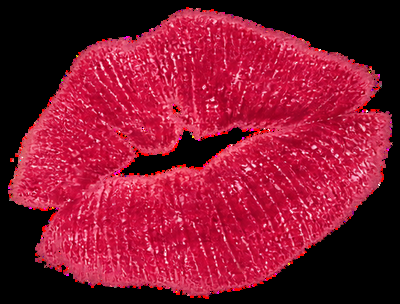
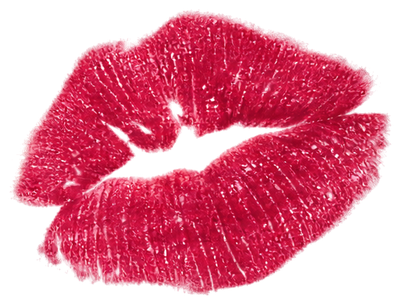
Controlled refinement: hero portrait, transparent signature, philosophy section, habit preview
- Hero: full-bleed portrait (natascha-natural-portrait.jpg) replacing the
  boxed cafe photo, matching the natascha-wright.com editorial treatment.
- Signature/lips assets replaced with properly composited transparent PNGs
  (no more black rectangle behind the gold signature).
- New PhilosophySection ("What About Right Now?") between the intro note
  and the habits preview, using the PDF foreword's own words.
- HabitsSection now previews only habits 01/02/05 with a "+7 more" teaser
  and a "Get All 10 Habits — Free" CTA, instead of listing all ten.
- AboutTeaserSection: large full-height cafe photo on the left (editorial
  spread), text on the right; frees the artist-portrait photo from this
  slot (still used on /about).
- MusicBridgeSection CTA reworded, opens natascha-wright.com in a new tab.
- Footer: removed the promotional Experienta Group link (copyright line
  unchanged).
- Fixed a flex/grid overflow bug in KitForm + HappyLifeLetterSection that
  cut off the "Join the Happy Life Letter" button under the sunset image
  at desktop widths (missing min-w-0 on flex children).

diff --git a/components/Hero.tsx b/components/Hero.tsx
@@ -3,47 +3,49 @@ import Image from "next/image";
 export default function Hero() {
   return (
     <section className="relative overflow-hidden bg-mhr-ivory">
-      <div className="mx-auto max-w-6xl px-5 sm:px-8 grid md:grid-cols-2 gap-10 md:gap-16 items-center min-h-[86vh] md:min-h-[90vh] py-16 md:py-0">
-        <div className="order-2 md:order-1 mhr-fade-up">
-          <p className="text-xs uppercase tracking-[0.3em] text-mhr-gold mb-6">
-            My Happy Life Routine
-          </p>
-          <h1 className="font-display text-4xl sm:text-5xl md:text-[3.4vw] leading-[1.05] text-mhr-ink mb-3">
-            10 Small Habits
-            <br />
-            I Live By
-          </h1>
-          <p className="font-display italic text-lg text-mhr-ink-soft mb-8">
-            by Natascha Wright
-          </p>
-          <p className="text-base sm:text-lg text-mhr-ink-soft leading-relaxed max-w-md mb-10">
-            You don&rsquo;t have to wait for someday to feel good about your
-            life.
-          </p>
-          <div className="flex flex-wrap items-center gap-5">
-            <a
-              href="#guide"
-              className="font-display text-xs uppercase tracking-[0.16em] px-7 py-3.5 bg-mhr-charcoal text-mhr-cream hover:bg-mhr-ink transition-colors"
-            >
-              Get My Free Routine
-            </a>
-            <a
-              href="#routine"
-              className="font-display text-xs uppercase tracking-[0.16em] px-7 py-3.5 border border-mhr-gold text-mhr-ink hover:bg-mhr-gold hover:text-mhr-ivory transition-colors"
-            >
-              Discover My Routine
-            </a>
+      <div className="grid md:grid-cols-2 items-center min-h-[86vh] md:min-h-[90vh]">
+        <div className="order-2 md:order-1 px-5 sm:px-8 md:pl-8 md:pr-10 lg:pl-16 lg:pr-14 py-16 md:py-0 mhr-fade-up">
+          <div className="max-w-md mx-auto md:mx-0">
+            <p className="text-xs uppercase tracking-[0.3em] text-mhr-gold mb-6">
+              My Happy Life Routine
+            </p>
+            <h1 className="font-display text-4xl sm:text-5xl md:text-[3.4vw] leading-[1.05] text-mhr-ink mb-3">
+              10 Small Habits
+              <br />
+              I Live By
+            </h1>
+            <p className="font-display italic text-lg text-mhr-ink-soft mb-8">
+              by Natascha Wright
+            </p>
+            <p className="text-base sm:text-lg text-mhr-ink-soft leading-relaxed max-w-md mb-10">
+              You don&rsquo;t have to wait for someday to feel good about your
+              life.
+            </p>
+            <div className="flex flex-wrap items-center gap-5">
+              <a
+                href="#guide"
+                className="font-display text-xs uppercase tracking-[0.16em] px-7 py-3.5 bg-mhr-charcoal text-mhr-cream hover:bg-mhr-ink transition-colors"
+              >
+                Get My Free Routine
+              </a>
+              <a
+                href="#routine"
+                className="font-display text-xs uppercase tracking-[0.16em] px-7 py-3.5 border border-mhr-gold text-mhr-ink hover:bg-mhr-gold hover:text-mhr-ivory transition-colors"
+              >
+                Discover My Routine
+              </a>
+            </div>
           </div>
         </div>
 
-        <div className="order-1 md:order-2 relative aspect-[4/5] md:aspect-auto md:h-[72vh] mhr-fade-up">
+        <div className="order-1 md:order-2 relative aspect-[4/5] md:aspect-auto h-[58vh] md:h-[90vh] mhr-fade-up">
           <Image
-            src="/images/natascha-cafe.jpg"
+            src="/images/natascha-natural-portrait.jpg"
             alt="Natascha Wright"
             fill
             priority
-            sizes="(min-width: 768px) 45vw, 90vw"
-            className="object-cover object-[center_20%] rounded-sm"
+            sizes="(min-width: 768px) 50vw, 100vw"
+            className="object-cover object-[50%_15%] md:object-[50%_20%]"
           />
         </div>
       </div>

diff --git a/components/HabitsSection.tsx b/components/HabitsSection.tsx
@@ -1,5 +1,10 @@
 import { habits } from "@/lib/habits";
 
+// Preview only — the free guide is the reason to give away all ten.
+const PREVIEW_NUMBERS = ["01", "02", "05"];
+const previewHabits = habits.filter((h) => PREVIEW_NUMBERS.includes(h.number));
+const remainingCount = habits.length - previewHabits.length;
+
 export default function HabitsSection() {
   return (
     <section id="routine" className="bg-mhr-ivory-soft scroll-mt-20">
@@ -9,12 +14,12 @@ export default function HabitsSection() {
             My Routine
           </p>
           <h2 className="font-display text-3xl sm:text-4xl leading-tight text-mhr-ink">
-            10 Small Habits I Live By
+            A Few of the Habits I Live By
           </h2>
         </div>
 
-        <div className="grid sm:grid-cols-2 lg:grid-cols-2 gap-x-12 gap-y-14">
-          {habits.map((habit) => (
+        <div className="grid sm:grid-cols-2 lg:grid-cols-3 gap-x-12 gap-y-14">
+          {previewHabits.map((habit) => (
             <div key={habit.number} className="flex gap-6">
               <span className="mhr-numeral text-5xl sm:text-6xl leading-none shrink-0">
                 {habit.number}
@@ -32,6 +37,18 @@ export default function HabitsSection() {
               </div>
             </div>
           ))}
+        </div>
+
+        <div className="mt-16 pt-12 border-t border-mhr-line text-center">
+          <p className="font-display italic text-lg text-mhr-ink-soft mb-8">
+            + {remainingCount} more little habits inside the free guide
+          </p>
+          <a
+            href="#guide"
+            className="font-display text-xs uppercase tracking-[0.16em] px-8 py-4 bg-mhr-charcoal text-mhr-cream hover:bg-mhr-ink transition-colors inline-block"
+          >
+            Get All 10 Habits — Free
+          </a>
         </div>
       </div>
     </section>

diff --git a/components/AboutTeaserSection.tsx b/components/AboutTeaserSection.tsx
@@ -4,18 +4,18 @@ import Link from "next/link";
 export default function AboutTeaserSection() {
   return (
     <section className="bg-mhr-ivory">
-      <div className="mx-auto max-w-6xl px-5 sm:px-8 py-24 md:py-32 grid md:grid-cols-2 gap-14 md:gap-20 items-center">
-        <div className="relative aspect-[4/5] w-full max-w-md mx-auto md:mx-0">
+      <div className="grid md:grid-cols-2 items-stretch md:min-h-[720px]">
+        <div className="relative aspect-[4/5] md:aspect-auto h-[64vh] md:h-auto">
           <Image
-            src="/images/natascha-artist-portrait.jpg"
+            src="/images/natascha-cafe.jpg"
             alt="Natascha Wright"
             fill
-            sizes="(min-width: 768px) 40vw, 90vw"
-            className="object-cover object-top"
+            sizes="(min-width: 768px) 50vw, 100vw"
+            className="object-cover object-[50%_12%]"
           />
         </div>
 
-        <div>
+        <div className="flex flex-col justify-center px-5 sm:px-8 md:pl-10 md:pr-8 lg:pl-16 lg:pr-20 py-16 md:py-0">
           <p className="text-xs uppercase tracking-[0.3em] text-mhr-gold mb-6">
             About Natascha
           </p>
@@ -34,7 +34,7 @@ export default function AboutTeaserSection() {
           </p>
           <Link
             href="/about/"
-            className="font-display text-xs uppercase tracking-[0.16em] px-7 py-3.5 border border-mhr-gold text-mhr-ink hover:bg-mhr-gold hover:text-mhr-ivory transition-colors inline-block"
+            className="font-display text-xs uppercase tracking-[0.16em] px-7 py-3.5 border border-mhr-gold text-mhr-ink hover:bg-mhr-gold hover:text-mhr-ivory transition-colors inline-block w-fit"
           >
             More About Natascha
           </Link>

diff --git a/components/PhilosophySection.tsx b/components/PhilosophySection.tsx
@@ -1,0 +1,36 @@
+export default function PhilosophySection() {
+  return (
+    <section className="bg-mhr-ivory">
+      <div className="mx-auto max-w-3xl px-5 sm:px-8 py-24 md:py-32 text-center">
+        <p className="text-xs uppercase tracking-[0.3em] text-mhr-gold mb-8">
+          What About Right Now?
+        </p>
+
+        <div className="font-display italic text-lg sm:text-xl text-mhr-ink-soft leading-relaxed space-y-1 mb-10">
+          <p>&ldquo;Once I have that house&hellip;&rdquo;</p>
+          <p>&ldquo;Once I make more money&hellip;&rdquo;</p>
+          <p>&ldquo;Once I have more time&hellip;&rdquo;</p>
+          <p>&ldquo;Once I finally reach that goal&hellip;&rdquo;</p>
+        </div>
+
+        <p className="text-mhr-ink-soft leading-relaxed max-w-xl mx-auto mb-6">
+          How often do we place our happiness somewhere in the future?
+        </p>
+
+        <p className="text-mhr-ink-soft leading-relaxed max-w-xl mx-auto mb-14">
+          I still want to dream big. I still have goals and things I want to
+          achieve. But I don&rsquo;t want to wait until everything is perfect
+          before I allow myself to feel good about my life.
+        </p>
+
+        <div className="mhr-hairline w-24 mx-auto mb-10" />
+
+        <p className="font-display text-2xl sm:text-3xl leading-snug text-mhr-ink">
+          Keep dreaming about tomorrow.
+          <br />
+          But don&rsquo;t forget to be happy today.
+        </p>
+      </div>
+    </section>
+  );
+}

diff --git a/components/KitForm.tsx b/components/KitForm.tsx
@@ -20,7 +20,7 @@ type KitFormProps = {
 export default function KitForm({ buttonLabel, placeholder = "Your first name" }: KitFormProps) {
   return (
     <form
-      className="flex flex-col sm:flex-row gap-3 w-full max-w-md"
+      className="flex flex-col sm:flex-row sm:flex-wrap gap-3 w-full max-w-md min-w-0"
       // action={`https://app.kit.com/forms/REPLACE_FORM_ID/subscriptions`}
       // method="post"
       onSubmit={(e) => e.preventDefault()}
@@ -31,14 +31,14 @@ export default function KitForm({ buttonLabel, placeholder = "Your first name" }
         name="first_name"
         placeholder={placeholder}
         required
-        className="flex-1 bg-transparent border border-mhr-ink/30 px-4 py-3 text-sm placeholder:text-mhr-ink-soft/60 focus:outline-none focus:border-mhr-gold"
+        className="flex-1 min-w-0 bg-transparent border border-mhr-ink/30 px-4 py-3 text-sm placeholder:text-mhr-ink-soft/60 focus:outline-none focus:border-mhr-gold"
       />
       <input
         type="email"
         name="email_address"
         placeholder="Your email"
         required
-        className="flex-1 bg-transparent border border-mhr-ink/30 px-4 py-3 text-sm placeholder:text-mhr-ink-soft/60 focus:outline-none focus:border-mhr-gold"
+        className="flex-1 min-w-0 bg-transparent border border-mhr-ink/30 px-4 py-3 text-sm placeholder:text-mhr-ink-soft/60 focus:outline-none focus:border-mhr-gold"
       />
       <button
         type="submit"

diff --git a/app/page.tsx b/app/page.tsx
@@ -1,5 +1,6 @@
 import Hero from "@/components/Hero";
 import IntroSection from "@/components/IntroSection";
+import PhilosophySection from "@/components/PhilosophySection";
 import HabitsSection from "@/components/HabitsSection";
 import FreeGuideSection from "@/components/FreeGuideSection";
 import HappyLifeLetterSection from "@/components/HappyLifeLetterSection";
@@ -12,6 +13,7 @@ export default function Home() {
     <>
       <Hero />
       <IntroSection />
+      <PhilosophySection />
       <HabitsSection />
       <FreeGuideSection />
       <HappyLifeLetterSection />

diff --git a/components/MusicBridgeSection.tsx b/components/MusicBridgeSection.tsx
@@ -19,9 +19,11 @@ export default function MusicBridgeSection() {
         </p>
         <a
           href="https://natascha-wright.com/"
+          target="_blank"
+          rel="noopener noreferrer"
           className="font-display text-xs uppercase tracking-[0.16em] text-mhr-gold hover:text-mhr-ink transition-colors border-b border-mhr-gold pb-1"
         >
-          Discover Natascha&rsquo;s Music &amp; Artist World →
+          Visit Natascha&rsquo;s Official Artist Website ↗
         </a>
       </div>
     </section>

diff --git a/components/HappyLifeLetterSection.tsx b/components/HappyLifeLetterSection.tsx
@@ -5,7 +5,7 @@ export default function HappyLifeLetterSection() {
   return (
     <section id="letter" className="bg-mhr-charcoal text-mhr-cream scroll-mt-20">
       <div className="mx-auto max-w-6xl px-5 sm:px-8 py-24 md:py-32 grid md:grid-cols-2 gap-14 md:gap-20 items-center">
-        <div>
+        <div className="min-w-0">
           <p className="text-xs uppercase tracking-[0.3em] text-mhr-gold-soft mb-6">
             The Happy Life Letter
           </p>

diff --git a/components/SiteFooter.tsx b/components/SiteFooter.tsx
@@ -68,14 +68,6 @@ export default function SiteFooter() {
                   Legal Notice
                 </Link>
               </li>
-              <li>
-                <a
-                  href={site.experientaWebsite}
-                  className="hover:text-mhr-gold-soft transition-colors"
-                >
-                  The Experienta Group
-                </a>
-              </li>
             </ul>
           </div>
         </div>
